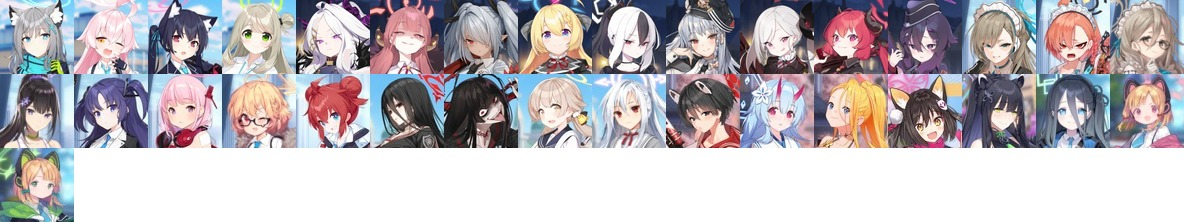
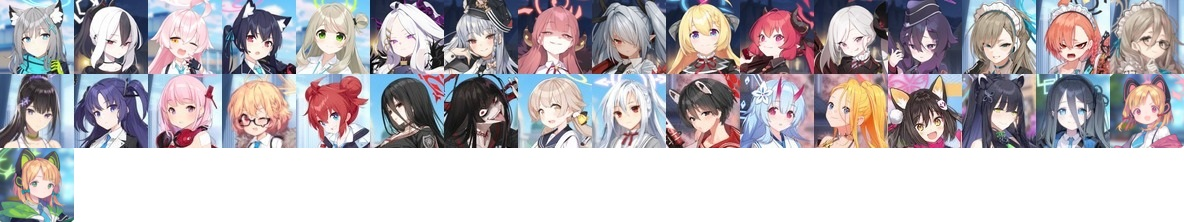
alter_update_and_img

Changed region(s): [[0.0625, 0.0, 0.75, 0.3514]]

diff --git a/update_list.html b/update_list.html
@@ -20,8 +20,12 @@
 		<form name="form1" method="post" enctype="multipart/form-data" action="insert_result.php" data-ajax="false"> 
 			<div class="ui-body ui-body-a">
 				<label class="select"><h1>2021.04.08</h1></label>	
-				<label class="select">총력전 편성 검색 추가<br>
+				<label class="select">총력전 편성 검색 추가 및 캐릭터 업데이트<br>
 					총력전 편성 검색 시스템을 추가 하였습니다.
+					<br/>
+					신 캐릭터 모모이와 미도리를 추가하였습니다.
+					<br/>
+					대항전 캐릭터 선택 편의성을 높혔습니다.
 				</label>
 				<label class="select"><h1>2021.03.28</h1></label>	
 				<label class="select">대항전 편성 등록 관련<br>
